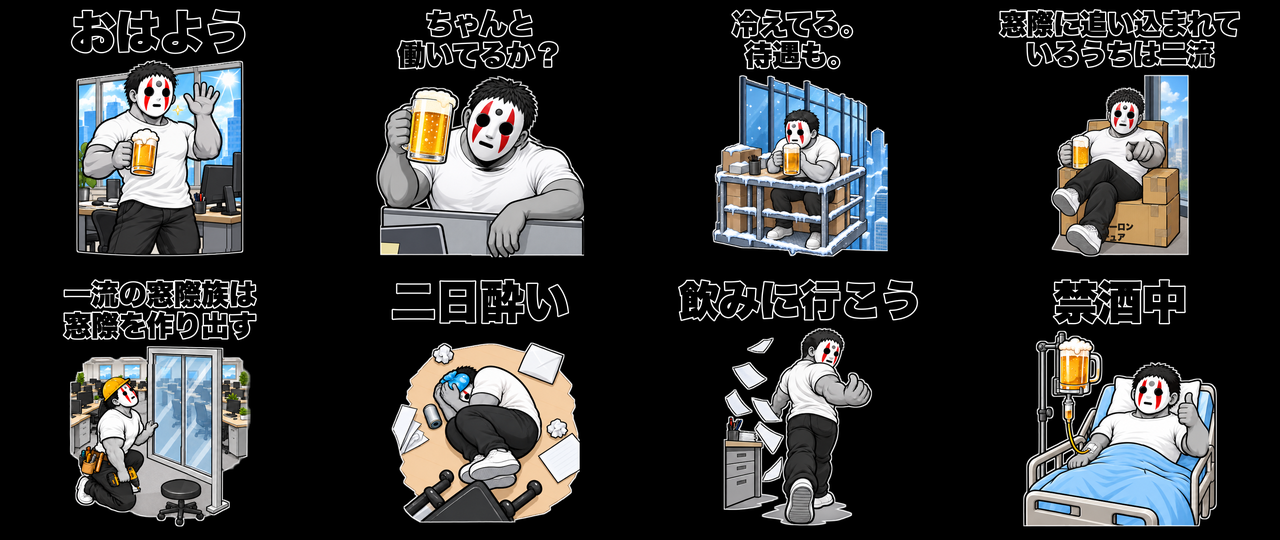
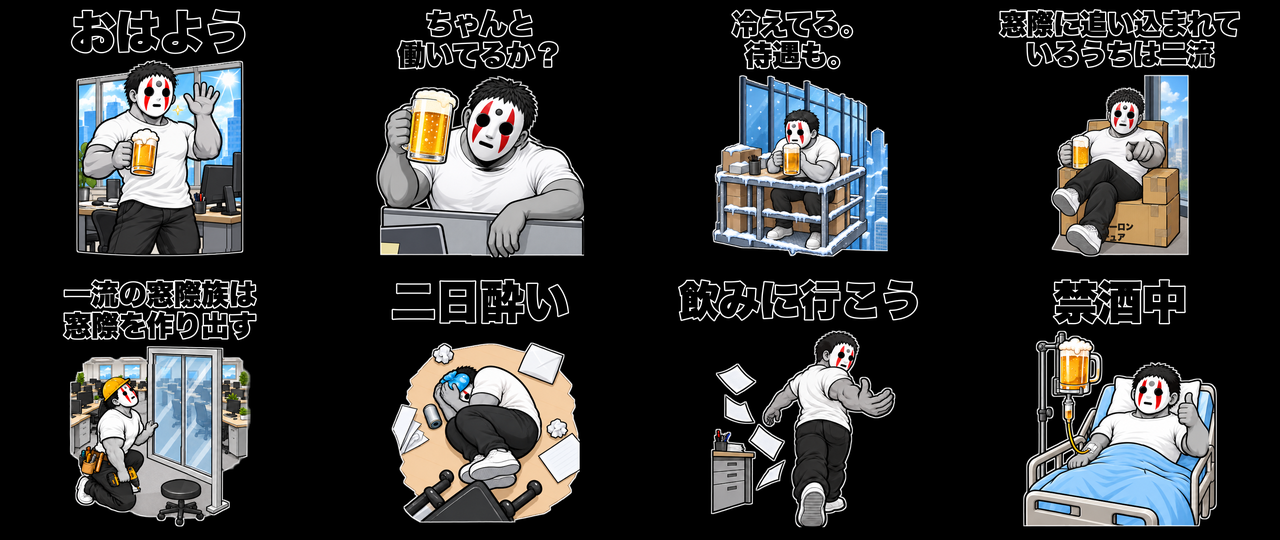
Revise Sobaya paper toss animation and add subtle elbow motion candidates

Changed region(s): [[0.5312, 0.5926, 0.7188, 0.9778]]

diff --git a/27_LINE_STICKERS/sets/02/tools/build-elbow-candidates.py b/27_LINE_STICKERS/sets/02/tools/build-elbow-candidates.py
@@ -1,0 +1,55 @@
+"""Three generated-pose motion candidates, separate from adopted set."""
+import json,subprocess
+from pathlib import Path
+import numpy as np
+from PIL import Image,ImageDraw,ImageFont,ImageFilter
+import build as b
+ROOT=b.ROOT;OUT=ROOT/'drafts/elbow-weight'
+labels=['A 軽く預ける','B 肘側へもたれる','C ゆっくり預ける']
+delays=[[300,120,120,120,120,2220],[400,140,140,140,140,2040],[700,200,240,260,240,1360]]
+allframes=[];report=[]
+for k,name in enumerate('ABC'):
+ d=OUT/name;sheet=Image.open(d/'keyframes.png').convert('RGBA');cw=sheet.width//3;ch=sheet.height//2
+ fs=[b.clean(b.fit_cell(sheet.crop((i%3*cw,i//3*ch,(i%3+1)*cw,(i//3+1)*ch)))) for i in range(6)]
+ base=fs[0];regs=[];aligned=[base]
+ for im in fs[1:]:
+  im,r=b.register(base,im,[(20,410,100,65),(390,420,95,50)],64);aligned.append(im);regs.append(r)
+ # Only chest/shoulder girdle, neck and head may settle; arms/hands/beer are fixed.
+ mask=Image.new('L',(512,512));dr=ImageDraw.Draw(mask)
+ dr.polygon([(185,40),(395,40),(395,215),(465,240),(485,280),(385,300),(300,325),(260,350),(140,350),(145,270),(185,235)],fill=255)
+ mask=mask.filter(ImageFilter.GaussianBlur(1.3))
+ fs=[Image.composite(im,base,mask) for im in aligned]
+ for i,f in enumerate(fs):b.save(f,d/'poses'/f'{i:02d}.png')
+ bb=[f.getbbox() for f in fs];box=(min(x[0] for x in bb),min(x[1] for x in bb),max(x[2] for x in bb),max(x[3] for x in bb));fs=[f.crop(box) for f in fs]
+ cap,hh=b.caption(['ちゃんと','働いてるか？']);masters=[b.compose(f,cap,hh) for f in fs];display=[f.resize((400,400),Image.Resampling.LANCZOS) for f in masters]
+ for bg in ['white','black']:
+  rgb=[]
+  for f in display:
+   z=Image.new('RGBA',f.size,bg);z.alpha_composite(f);rgb.append(z.convert('RGB'))
+  b.gif(rgb,delays[k],d/f'preview-{bg}.gif')
+ display[0].save(d/'still.png');delivery=[]
+ for f in masters:
+  z=Image.new('RGBA',(320,270));z.alpha_composite(f.resize((260,260),Image.Resampling.LANCZOS),(30,5));delivery.append(z)
+ delivery[0].save(d/'sticker.png',save_all=True,append_images=delivery[1:],duration=delays[k],loop=1,disposal=0,blend=0)
+ total=0;timed=[]
+ for delay,f in zip(delays[k],display):total+=delay;timed.append((total,f))
+ allframes.append(timed)
+ # Verify hands are identical before common crop (not a fake body deformation).
+ final=Image.open(d/'poses/05.png');first=Image.open(d/'poses/00.png');a=np.array(first);z=np.array(final)
+ fixed=np.array(mask)==0
+ assert np.array_equal(a[fixed],z[fixed]);assert total==3000
+ changes=[int(np.count_nonzero(np.any(np.array(Image.open(d/'poses'/f'{i:02d}.png'))!=a,axis=2))) for i in range(6)]
+ assert max(changes)>100
+ report.append({'id':name,'delays':delays[k],'registration':regs,'changedPixels':changes,'fixedOutsideChestHeadMask':True,'method':'generated poses; fixed arms composite; no deformation'})
+ for f in [d/'preview-white.gif',d/'sticker.png']:subprocess.run(['ffmpeg','-v','error','-i',str(f),'-f','null','-'],check=True,capture_output=True)
+font=ImageFont.truetype(b.FONT,24,index=0);times=sorted({0,3000}|{t for fs in allframes for t,_ in fs});ds=[y-x for x,y in zip(times,times[1:])]
+for bg in ['white','black']:
+ sheets=[]
+ for t in times[:-1]:
+  sh=Image.new('RGBA',(1200,450),bg);dr=ImageDraw.Draw(sh)
+  for k,fs in enumerate(allframes):
+   dr.text((k*400+25,8),labels[k],font=font,fill='black' if bg=='white' else 'white');sh.alpha_composite(b.at(fs,t),(k*400,50))
+  sheets.append(sh.convert('RGB'))
+ b.gif(sheets,ds,OUT/f'comparison-{bg}.gif');sheets[0].save(OUT/f'comparison-{bg}.png')
+(OUT/'validation.json').write_text(json.dumps(report,ensure_ascii=False,indent=2)+'\n')
+print('Created 3 elbow-weight candidates and comparison GIFs')

diff --git a/27_LINE_STICKERS/sets/02/tools/build.py b/27_LINE_STICKERS/sets/02/tools/build.py
@@ -18,7 +18,7 @@ ANCHORS=[[(80,70,60,100),(90,370,65,70),(380,55,55,120)],
  [(335,70,55,90),(215,370,80,65),(120,350,40,70)],
  [(340,50,65,150),(320,410,75,55),(50,75,70,60)],
  [(105,210,35,70),(390,60,65,65),(395,310,55,45)],
- [(85,310,65,95),(100,285,55,50)],
+ [(40,350,65,90),(33,325,80,30)],
  [(100,60,65,90),(65,20,40,80),(65,410,160,40)]]
 # Regions containing the complete union of moving anatomy, in base cell coords.
 POLYS=[ [[(310,40),(457,40),(457,455),(282,455),(282,180),(310,180)]],
@@ -28,7 +28,7 @@ POLYS=[ [[(310,40),(457,40),(457,455),(282,455),(282,180),(310,180)]],
  [[(40,65),(270,65),(290,260),(355,325),(320,410),(110,430),(45,355)]],
  [],[],
  [[(365,155),(480,155),(490,382),(335,385),(315,295),(350,245)]]]
-NAMES=['下ろした手を上げ、口元が輝く','空いた腕をパーティションに置き、馴れ馴れしくもたれる','肩をすくめて震え、白い息を吐く','顔をこちらに固定し、手を上げて指差す','ドリルで締め、引いて窓を見る','両手で頭を抱え、丸くなる','書類を投げ、手招きして帰る','寝たまま手を上げてサムズアップ']
+NAMES=['下ろした手を上げ、口元が輝く','空いた腕をパーティションに置き、馴れ馴れしくもたれる','肩をすくめて震え、白い息を吐く','顔をこちらに固定し、手を上げて指差す','ドリルで締め、引いて窓を見る','両手で頭を抱え、丸くなる','正面から書類を横へ捨て、背を向けながらこちらを振り返る','寝たまま手を上げてサムズアップ']
 
 def save(im,p):
  p.parent.mkdir(parents=True,exist_ok=True);im.save(p)
@@ -96,6 +96,15 @@ def prepare(k,s):
    main=1+np.argmax(stats[1:,cv2.CC_STAT_AREA]);keep=cv2.dilate((lab==main).astype('uint8'),np.ones((3,3),'uint8'))
    arr[keep==0]=0;kept.append(Image.fromarray(arr))
   frames=kept
+ if k==6:
+  cleaned=[]
+  for f in frames:
+   arr=np.array(f);n,lab,stats,_=cv2.connectedComponentsWithStats((arr[:,:,3]>20).astype('uint8'),8)
+   for j in range(1,n):
+    x,y,w,h,area=stats[j]
+    if y<12 and h<6 and w>h*5:arr[lab==j]=0
+   cleaned.append(Image.fromarray(arr))
+  frames=cleaned
  for i,f in enumerate(frames):save(f,d/'poses'/f'{i:02d}.png')
  # One COMMON crop across ALL poses preserves intentional motion and scale.
  boxes=[f.getbbox() for f in frames]
@@ -183,7 +192,7 @@ def main():
   p=out/'sticker.png'
   delivery[0].save(p,save_all=True,append_images=delivery[1:],duration=ds,loop=1,disposal=0,blend=0,optimize=True,compress_level=9)
   # Representative still is final gesture, except two-level quote/beckon.
-  hero=3 if k==6 else len(masters)-1
+  hero=len(masters)-1
   save(masters[hero],out/'master.png');save(display[hero],out/'still.png')
   save(masters[0],out/'start.png');save(masters[-1],out/'end.png')
   st=Image.new('RGBA',(370,320));st.alpha_composite(masters[hero].resize((310,310),Image.Resampling.LANCZOS),(30,5));save(st,ROOT/'static/images'/f'{k+1:02d}.png')

diff --git a/27_LINE_STICKERS/sets/02/README.md b/27_LINE_STICKERS/sets/02/README.md
@@ -14,8 +14,12 @@
 | 4 | 窓際に追い込まれているうちは二流 | アーロンチュアに座り、頭は固定してこちらへ指差す。頭の回転なし | [GIF](stickers/04_niryu/preview.gif) |
 | 5 | 一流の窓際族は窓際を作り出す | オフィス中央の窓をドリルで締め、ドリルを引いて窓を見る | [GIF](stickers/05_ichiryu/preview.gif) |
 | 6 | 二日酔い | 両手で頭を抱え、脚を引き寄せて横向きに丸くなる | [GIF](stickers/06_futsukayoi/preview.gif) |
-| 7 | 飲みに行こう | 書類を投げ、手招きして帰る方向へ体を向ける。ジャケットなし | [GIF](stickers/07_nomini/preview.gif) |
+| 7 | 飲みに行こう | 正面から書類を横へ捨て、背を向けながらこちらを振り返る。終端は元の静止画のポーズ。ジャケットなし | [GIF](stickers/07_nomini/preview.gif) |
 | 8 | 禁酒中 | ビールの点滴をつないだまま、空いた手を上げてサムズアップ | [GIF](stickers/08_kinshu/preview.gif) |
+
+## 追加調整
+
+「ちゃんと働いてるか？」は、最初のB案の腕位置を維持して肘へ体重を預ける弱い動き3案を比較中。`drafts/elbow-weight/comparison-white.gif` と `comparison-black.gif`。A＝軽く預ける、B＝肘側へもたれる、C＝ゆっくり預ける。候補は本番8枚へまだ反映していない。生成プロンプトは `source/elbow-weight-candidates.json`、加工は `tools/build-elbow-candidates.py`。候補の原画・GIFはローカルのdraftsに保持。
 
 ## 完成ファイル
 
